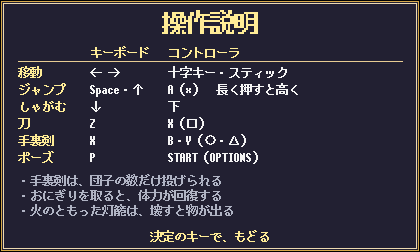
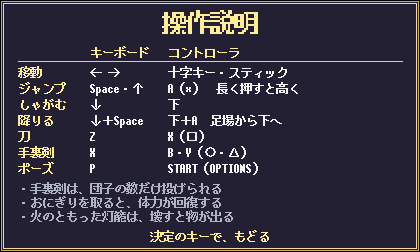
操作説明に「降りる（↓＋ジャンプ）」を足す

diff --git a/tools/make_howto.py b/tools/make_howto.py
@@ -18,6 +18,7 @@ ROWS = (
     ("移動", "← →", "十字キー・スティック"),
     ("ジャンプ", "Space・↑", "A（×）　長く押すと高く"),
     ("しゃがむ", "↓", "下"),
+    ("降りる", "↓＋Space", "下＋A　足場から下へ"),
     ("刀", "Z", "X（□）"),
     ("手裏剣", "X", "B・Y（○・△）"),
     ("ポーズ", "P", "START（OPTIONS）"),
@@ -53,11 +54,11 @@ def main(font_path, out):
     for row in ROWS:
         for x, s, color in zip(COLS, row, (GOLD, WHITE, WHITE)):
             d.text((x, y), s, font=font, fill=color)
-        y += 17
-    y += 6
+        y += 16
+    y += 4
     for s in NOTES:
         d.text((COLS[0], y), s, font=font, fill=GREY)
-        y += 15
+        y += 14
     back = "決定のキーで、もどる"
     d.text(((W - int(font.getlength(back))) // 2, H - 22), back, font=font, fill=GOLD)
     img.save(out)
